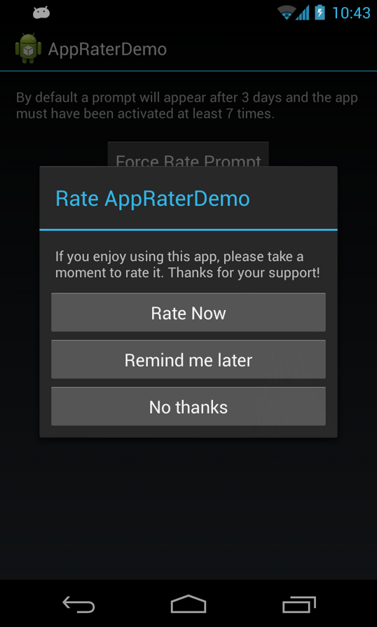
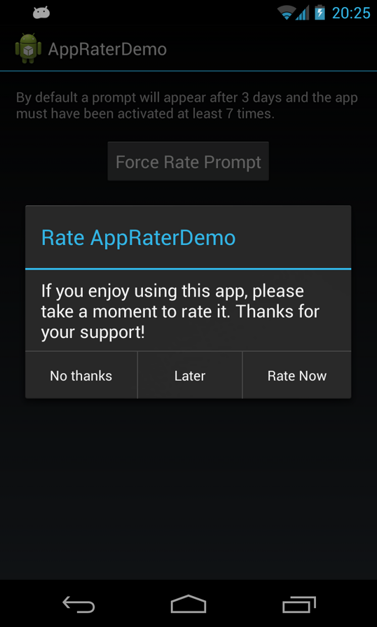
Updated to use Holo Dialog styling

Changed region(s): [[0.0584, 0.2424, 0.9337, 0.697], [0.7878, 0.0, 0.9045, 0.0303], [0.9337, 0.0, 0.992, 0.0303]]

diff --git a/AppRater/src/org/codechimp/apprater/AppRater.java b/AppRater/src/org/codechimp/apprater/AppRater.java
@@ -1,23 +1,20 @@
 package org.codechimp.apprater;
 
-import android.app.Dialog;
+import android.app.AlertDialog;
+import android.app.AlertDialog.Builder;
 import android.content.Context;
+import android.content.DialogInterface;
 import android.content.Intent;
 import android.content.SharedPreferences;
 import android.net.Uri;
-import android.view.View;
-import android.view.View.OnClickListener;
-import android.widget.Button;
-import android.widget.LinearLayout;
-import android.widget.TextView;
 
 public class AppRater {
 	private final static int DAYS_UNTIL_PROMPT = 3;
 	private final static int LAUNCHES_UNTIL_PROMPT = 7;
 
-	
 	/**
-	 * Call this method at the end of your OnCreate method to determine whether to show the rate prompt
+	 * Call this method at the end of your OnCreate method to determine whether
+	 * to show the rate prompt
 	 */
 	public static void app_launched(Context context) {
 		SharedPreferences prefs = context.getSharedPreferences("apprater", 0);
@@ -38,11 +35,12 @@ public class AppRater {
 			editor.putLong("date_firstlaunch", date_firstLaunch);
 		}
 
-		// Wait for at least the number of launches and the number of days used until prompt
+		// Wait for at least the number of launches and the number of days used
+		// until prompt
 		if (launch_count >= LAUNCHES_UNTIL_PROMPT) {
 			if (System.currentTimeMillis() >= date_firstLaunch
 					+ (DAYS_UNTIL_PROMPT * 24 * 60 * 60 * 1000)) {
-				showRateDialog(context, editor);
+				showRateAlertDialog(context, editor);
 			}
 		}
 
@@ -50,74 +48,62 @@ public class AppRater {
 	}
 
 	/**
-	 * Call this method directly if you want to force a rate prompt, useful for testing purposes
+	 * Call this method directly if you want to force a rate prompt, useful for
+	 * testing purposes
 	 */
 	public static void showRateDialog(final Context context) {
-		showRateDialog(context, null);
+		showRateAlertDialog(context, null);
 	}
 
 	/**
 	 * The meat of the library, actually shows the rate prompt dialog
 	 */
-	private static void showRateDialog(final Context context,
-			final SharedPreferences.Editor editor) {
-		final Dialog dialog = new Dialog(context);
-		dialog.setTitle(String.format(context.getString(R.string.dialog_title),
-						context.getString(R.string.app_name)));
-		
-		LinearLayout ll = new LinearLayout(context);
-		ll.setOrientation(LinearLayout.VERTICAL);
-		ll.setPadding(16, 16, 16, 16);
-
-		TextView tv = new TextView(context);
-		tv.setText(String.format(context.getString(R.string.rate_message),
+	private static void showRateAlertDialog(final Context context, final SharedPreferences.Editor editor) {
+		Builder builder = new AlertDialog.Builder(context);
+		builder.setTitle(String.format(
+				context.getString(R.string.dialog_title),
 				context.getString(R.string.app_name)));
-		tv.setPadding(16, 16, 16, 16);
-		ll.addView(tv);
 
-		Button buttonRateNow = new Button(context);
-		buttonRateNow.setText(context.getString(R.string.rate));
-		buttonRateNow.setOnClickListener(new OnClickListener() {
-			public void onClick(View v) {
-				context.startActivity(new Intent(Intent.ACTION_VIEW, Uri
-						.parse("market://details?id="
-								+ context.getPackageName().toString())));
-				if (editor != null) {
-					editor.putBoolean("dontshowagain", true);
-					editor.commit();
-				}
-				dialog.dismiss();
-			}
-		});
-		ll.addView(buttonRateNow);
+		builder.setMessage(String.format(
+				context.getString(R.string.rate_message),
+				context.getString(R.string.app_name)));
 
-		Button buttonRateLater = new Button(context);
-		buttonRateLater.setText(context.getString(R.string.later));
-		buttonRateLater.setOnClickListener(new OnClickListener() {
-			public void onClick(View v) {
-				if (editor != null) {
-					Long date_firstLaunch = System.currentTimeMillis();
-					editor.putLong("date_firstlaunch", date_firstLaunch);
-				}
-				dialog.dismiss();
-			}
-		});
-		ll.addView(buttonRateLater);
+		builder.setPositiveButton(context.getString(R.string.rate),
+				new DialogInterface.OnClickListener() {
+					public void onClick(DialogInterface dialog, int id) {
+						context.startActivity(new Intent(Intent.ACTION_VIEW, Uri
+								.parse("market://details?id="
+										+ context.getPackageName().toString())));
+						if (editor != null) {
+							editor.putBoolean("dontshowagain", true);
+							editor.commit();
+						}
+						
+						dialog.dismiss();			
+					}
+				});
 
-		Button buttonRateNever = new Button(context);
-		buttonRateNever.setText(context.getString(R.string.no_thanks));
-		buttonRateNever.setOnClickListener(new OnClickListener() {
-			public void onClick(View v) {
-				if (editor != null) {
-					editor.putBoolean("dontshowagain", true);
-					editor.commit();
-				}
-				dialog.dismiss();
-			}
-		});
-		ll.addView(buttonRateNever);
+		builder.setNeutralButton(context.getString(R.string.later),
+				new DialogInterface.OnClickListener() {
+					public void onClick(DialogInterface dialog, int id) {
+						if (editor != null) {
+							Long date_firstLaunch = System.currentTimeMillis();
+							editor.putLong("date_firstlaunch", date_firstLaunch);
+						}
+						dialog.dismiss();
+					}
+				});
 
-		dialog.setContentView(ll);
-		dialog.show();
+		builder.setNegativeButton(context.getString(R.string.no_thanks),
+				new DialogInterface.OnClickListener() {
+					public void onClick(DialogInterface dialog, int id) {
+						if (editor != null) {
+							editor.putBoolean("dontshowagain", true);
+							editor.commit();
+						}
+						dialog.dismiss();					}
+				});
+		
+		builder.show();
 	}
 }
